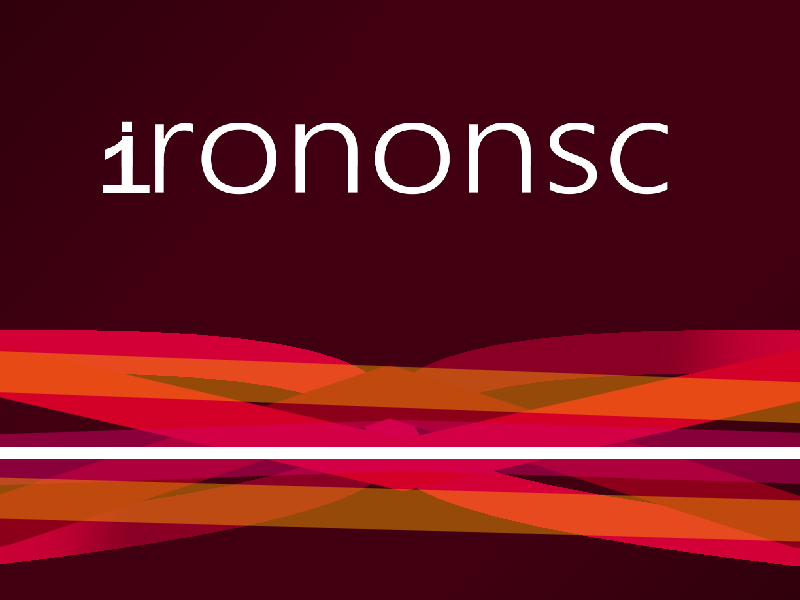
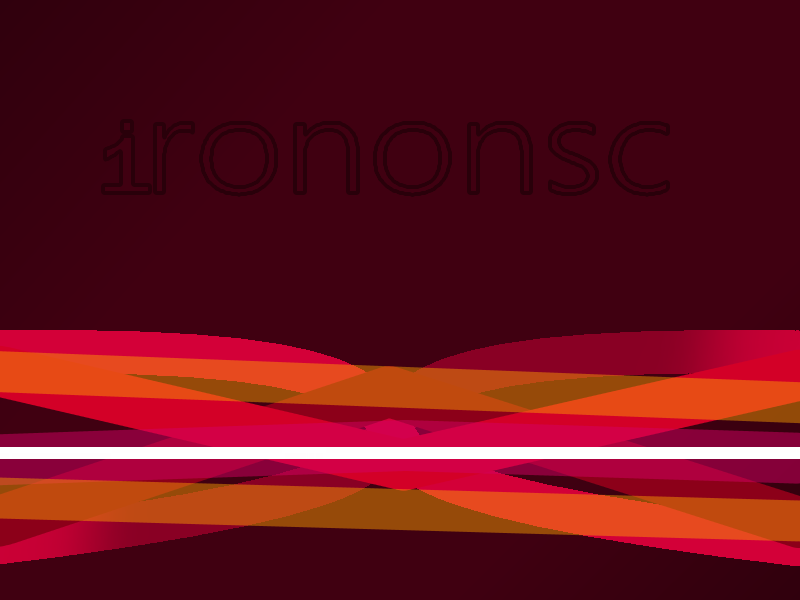
update website

Changed region(s): [[0.125, 0.18, 0.8438, 0.33], [0.7812, 0.3, 0.8438, 0.33]]

diff --git a/index.html b/index.html
@@ -7,7 +7,7 @@
     <link rel="icon" type="image/x-icon" href="favicon.ico">
     <link rel="stylesheet" href="style.css">
 </head>
-<body style="background:url('/background.png');">
+<body>
      <a href="https://x.com/ironoNSCtweets"><img src="https://img.shields.io/twitter/follow/ironoNSCtweets?style=social"></a>
     <a href="https://www.youtube.com/channel/UCQGMtOAuEUa0_P0B9Pr-Ffg"><img src="https://img.shields.io/youtube/channel/subscribers/UCQGMtOAuEUa0_P0B9Pr-Ffg?style=social"></a>
     <a href="https://github.com/ikkqqstudio"><img src="https://img.shields.io/github/followers/ikkqqstudio?style=social&label=GitHub Followers"></a>

diff --git a/style.css b/style.css
@@ -1,5 +1,9 @@
+p {
+    color: #FFFFFF
+}
 body {
     font-family: Arial;
+    background:url('/background.png')
 }
 a:link{
 color:Blue;
